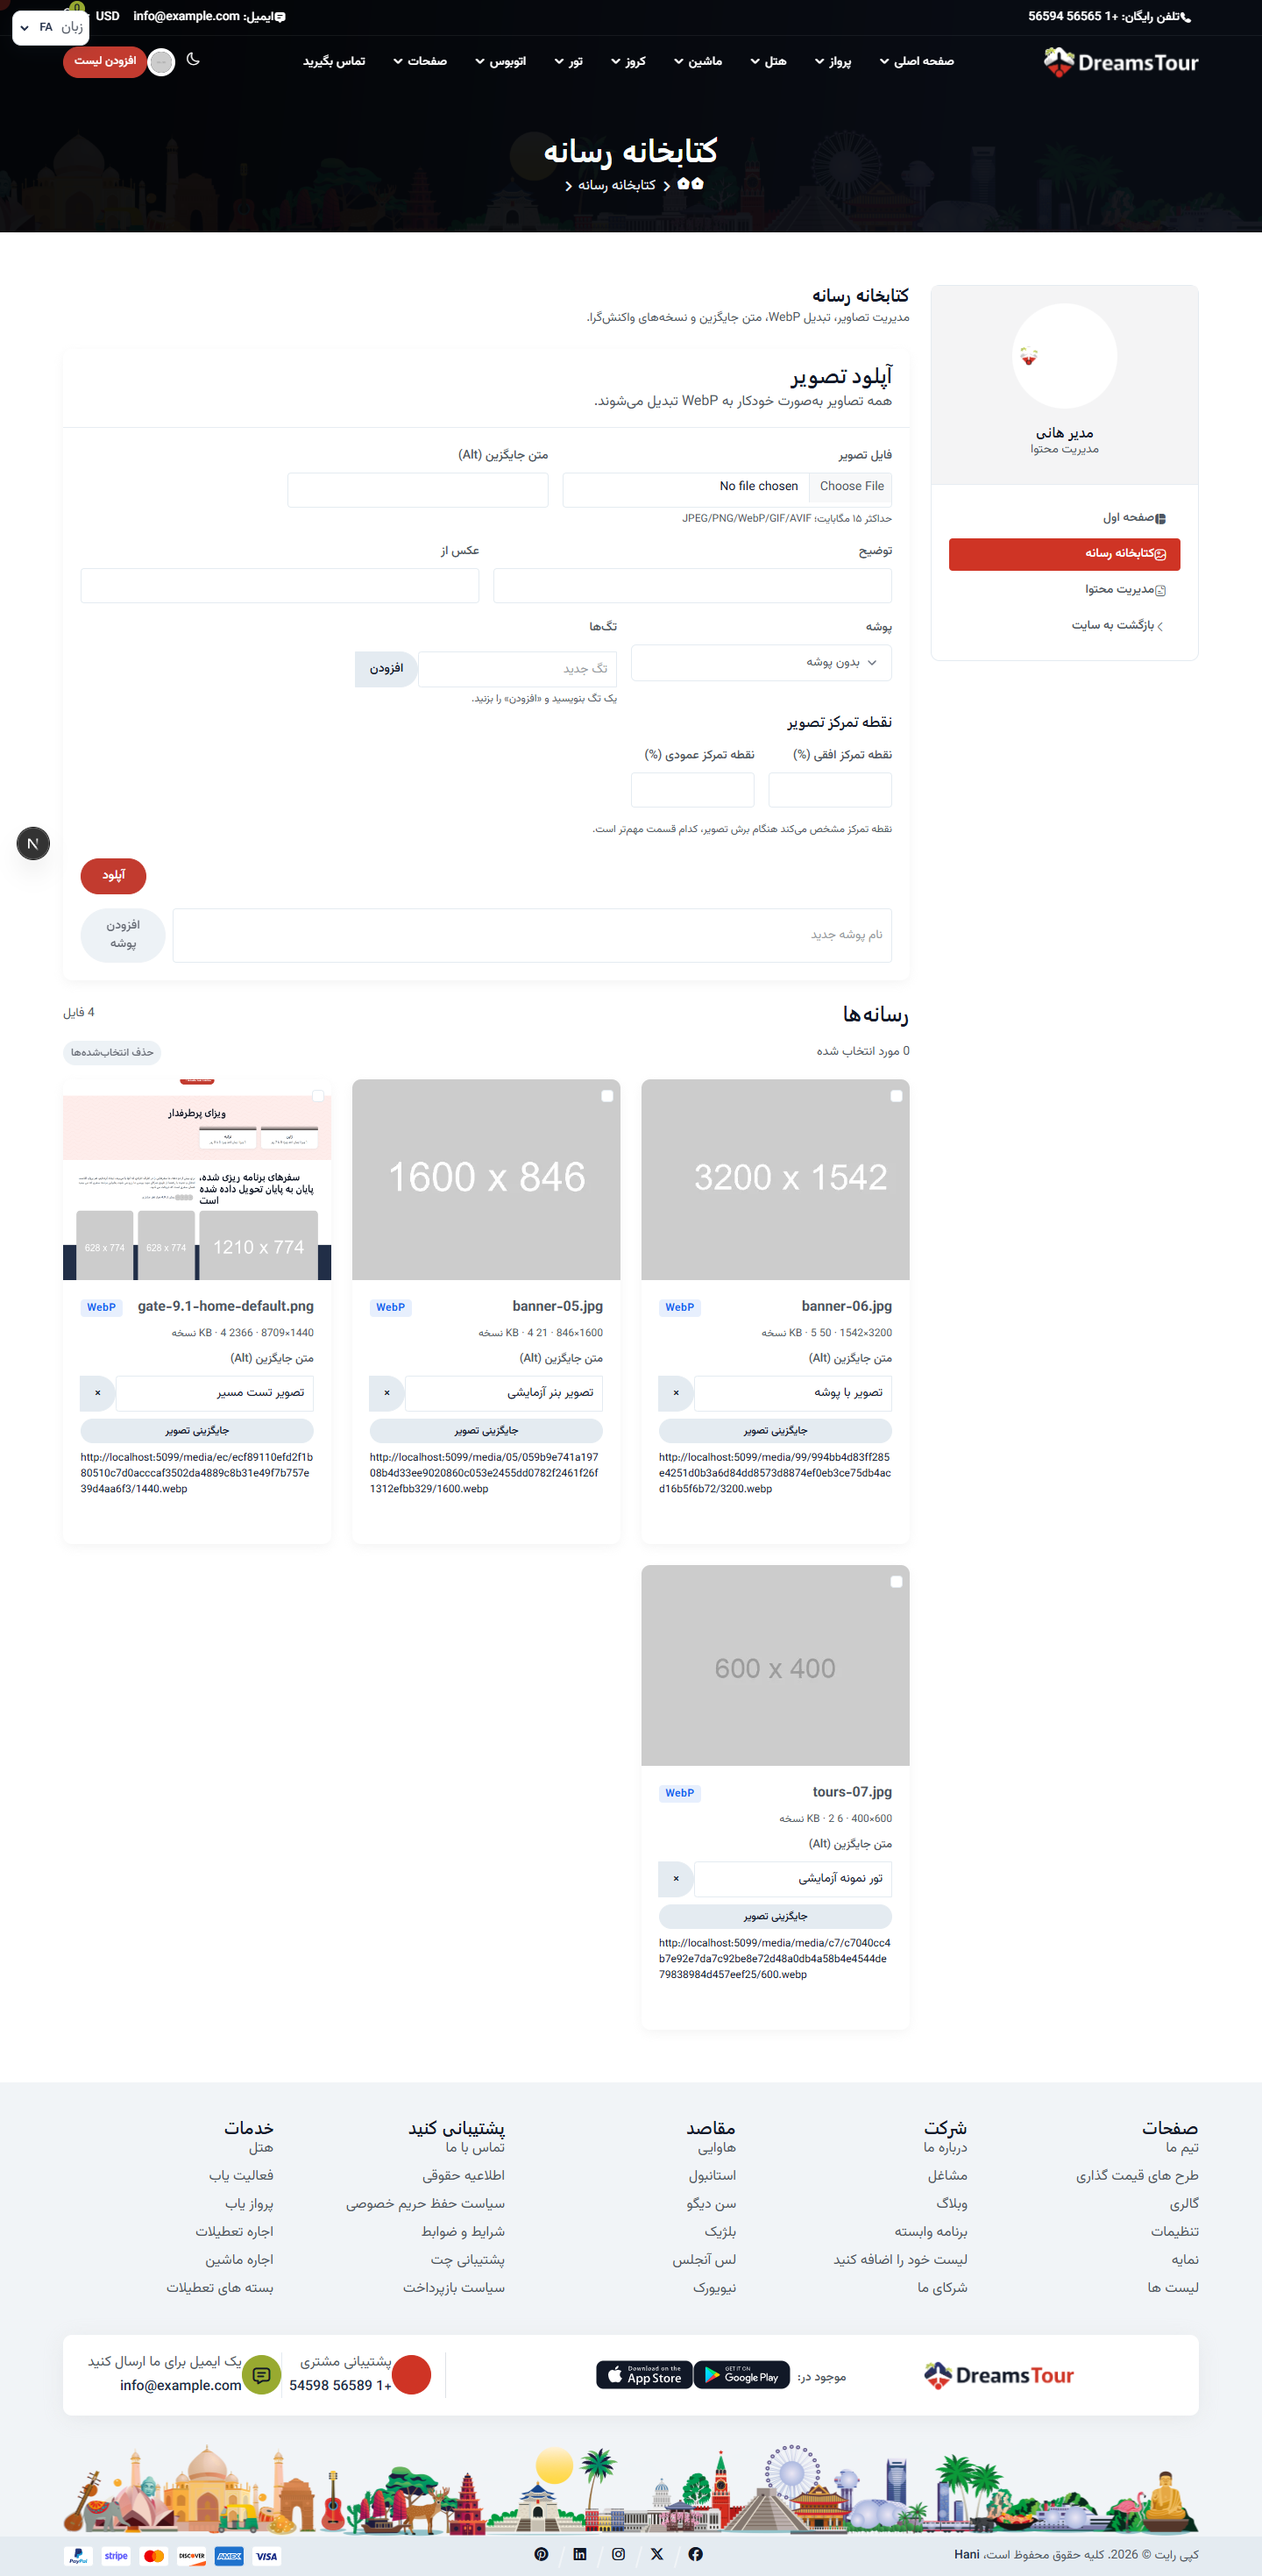
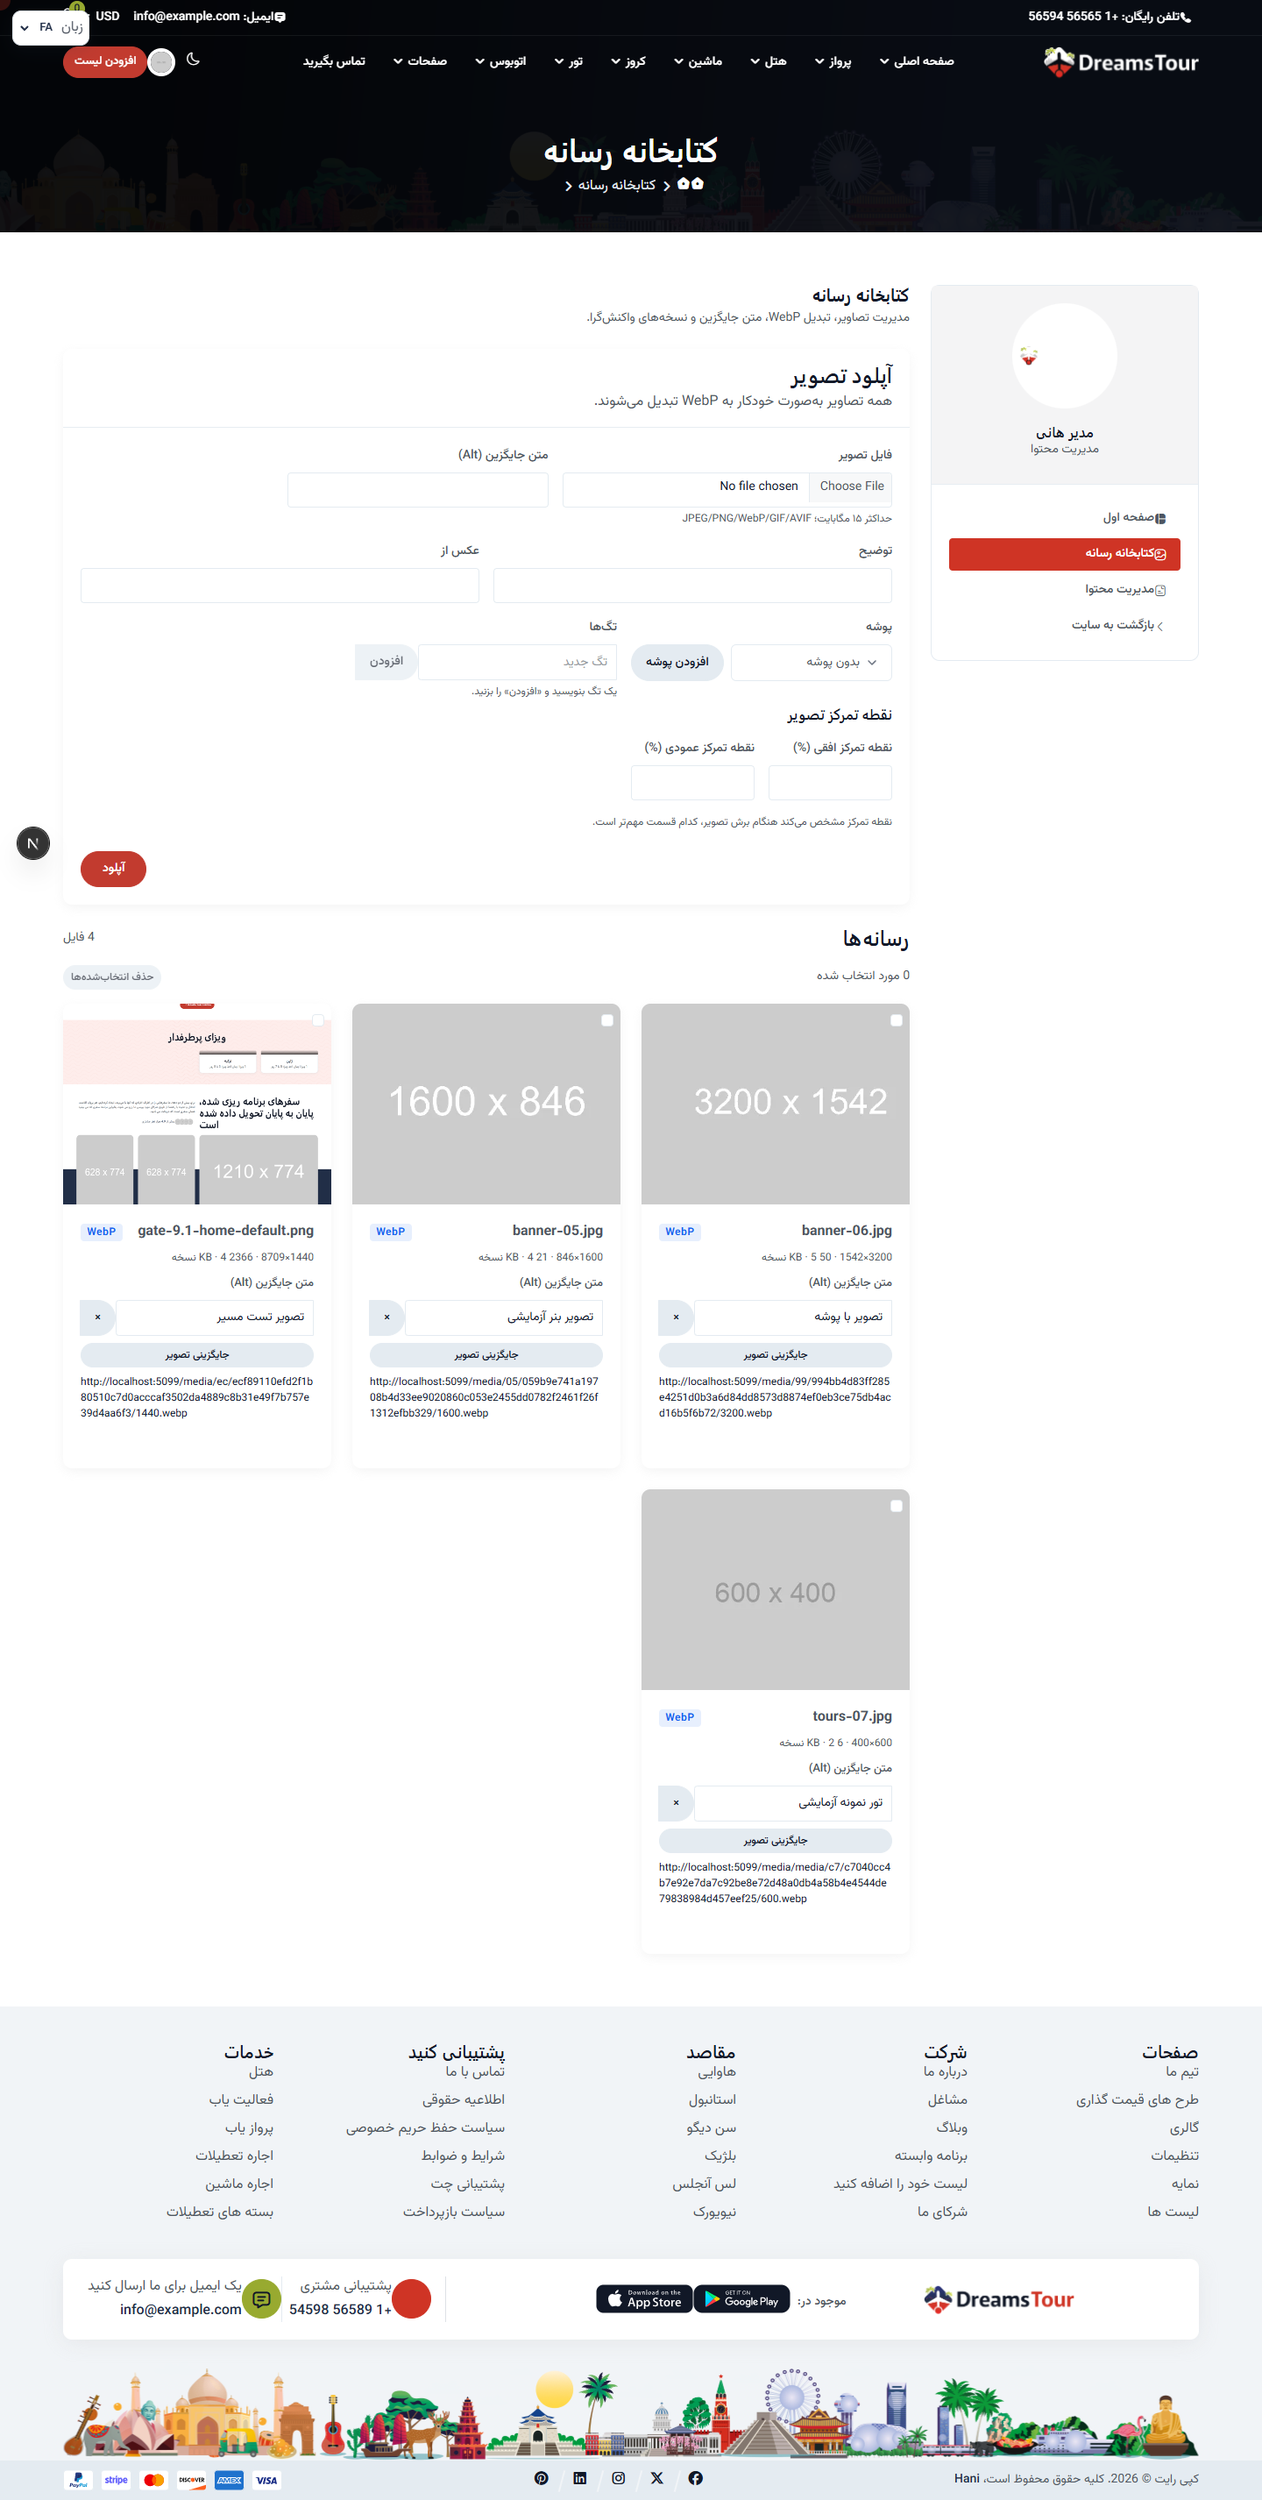
fix: align tag editor and move folder creation into modal

diff --git a/frontend/src/features/home-experience/ui/MediaLibraryEditor.tsx b/frontend/src/features/home-experience/ui/MediaLibraryEditor.tsx
@@ -1,6 +1,7 @@
 "use client";
 
-import { useState, useTransition } from "react";
+import { useEffect, useState, useTransition } from "react";
+import { createPortal } from "react-dom";
 import { useTranslations } from "next-intl";
 import { useRouter } from "next/navigation";
 import type { MediaAsset, MediaFolder } from "../domain/media";
@@ -29,10 +30,25 @@ export function MediaLibraryEditor({
   const [items, setItems] = useState(initialItems);
   const [folders, setFolders] = useState(initialFolders);
   const [newFolder, setNewFolder] = useState("");
+  const [folderModalOpen, setFolderModalOpen] = useState(false);
   const [uploadTags, setUploadTags] = useState<string[]>([]);
   const [selectedIds, setSelectedIds] = useState<string[]>([]);
   const [status, setStatus] = useState<"idle" | "uploaded" | "error">("idle");
   const [pending, startTransition] = useTransition();
+
+  useEffect(() => {
+    if (!folderModalOpen) return;
+    const previousOverflow = document.body.style.overflow;
+    document.body.style.overflow = "hidden";
+    const onKeyDown = (event: KeyboardEvent) => {
+      if (event.key === "Escape") setFolderModalOpen(false);
+    };
+    document.addEventListener("keydown", onKeyDown);
+    return () => {
+      document.body.style.overflow = previousOverflow;
+      document.removeEventListener("keydown", onKeyDown);
+    };
+  }, [folderModalOpen]);
 
   const upload = (formData: FormData) => {
     startTransition(async () => {
@@ -67,6 +83,7 @@ export function MediaLibraryEditor({
       if (result.ok && result.data) {
         setFolders((current) => [...current, result.data!]);
         setNewFolder("");
+        setFolderModalOpen(false);
       } else {
         setStatus("error");
       }
@@ -210,14 +227,26 @@ export function MediaLibraryEditor({
               <label className="form-label" htmlFor="media-folder">
                 {t("folder")}
               </label>
-              <select id="media-folder" className="form-select" name="folderId">
-                <option value="">{t("noFolder")}</option>
-                {folders.map((folder) => (
-                  <option key={folder.id} value={folder.id}>
-                    {folder.name}
-                  </option>
-                ))}
-              </select>
+              <div className="d-flex gap-2 media-folder-select-row">
+                <select id="media-folder" className="form-select" name="folderId">
+                  <option value="">{t("noFolder")}</option>
+                  {folders.map((folder) => (
+                    <option key={folder.id} value={folder.id}>
+                      {folder.name}
+                    </option>
+                  ))}
+                </select>
+                <button
+                  type="button"
+                  className="btn btn-light text-nowrap media-folder-add"
+                  onClick={() => {
+                    setStatus("idle");
+                    setFolderModalOpen(true);
+                  }}
+                >
+                  {t("addFolder")}
+                </button>
+              </div>
             </div>
             <div className="col-lg-4">
               <label className="form-label">{t("tags")}</label>
@@ -273,22 +302,6 @@ export function MediaLibraryEditor({
               </button>
             </div>
           </form>
-          <div className="d-flex gap-2 mt-3 media-folder-row">
-            <input
-              className="form-control"
-              value={newFolder}
-              placeholder={t("newFolder")}
-              onChange={(event) => setNewFolder(event.target.value)}
-            />
-            <button
-              type="button"
-              className="btn btn-light"
-              onClick={addFolder}
-              disabled={pending || !newFolder.trim()}
-            >
-              {t("addFolder")}
-            </button>
-          </div>
         </div>
       </div>
 
@@ -404,6 +417,87 @@ export function MediaLibraryEditor({
           ))}
         </div>
       )}
+
+      {folderModalOpen &&
+        typeof document !== "undefined" &&
+        createPortal(
+          <>
+            <div
+              className="modal fade show d-block"
+              role="dialog"
+              aria-modal="true"
+              aria-labelledby="media-folder-modal-title"
+              tabIndex={-1}
+              onMouseDown={(event) => {
+                if (event.target === event.currentTarget) {
+                  setFolderModalOpen(false);
+                }
+              }}
+            >
+              <div className="modal-dialog modal-dialog-centered">
+                <div className="modal-content">
+                  <div className="modal-header">
+                    <h5 className="modal-title" id="media-folder-modal-title">
+                      {t("addFolderTitle")}
+                    </h5>
+                    <button
+                      type="button"
+                      className="btn-close"
+                      aria-label={t("cancel")}
+                      onClick={() => setFolderModalOpen(false)}
+                    />
+                  </div>
+                  <div className="modal-body">
+                    {status === "error" && (
+                      <div className="alert alert-danger" role="alert">
+                        {t("error")}
+                      </div>
+                    )}
+                    <label className="form-label" htmlFor="media-new-folder">
+                      {t("newFolder")}
+                    </label>
+                    <input
+                      id="media-new-folder"
+                      className="form-control"
+                      value={newFolder}
+                      autoFocus
+                      maxLength={120}
+                      onChange={(event) => setNewFolder(event.target.value)}
+                      onKeyDown={(event) => {
+                        if (event.key === "Enter" && newFolder.trim()) {
+                          event.preventDefault();
+                          addFolder();
+                        }
+                      }}
+                    />
+                    <p className="fs-12 text-gray-6 mb-0 mt-2">
+                      {t("addFolderHint")}
+                    </p>
+                  </div>
+                  <div className="modal-footer">
+                    <button
+                      type="button"
+                      className="btn btn-light"
+                      onClick={() => setFolderModalOpen(false)}
+                    >
+                      {t("cancel")}
+                    </button>
+                    <button
+                      type="button"
+                      className="btn btn-primary"
+                      onClick={addFolder}
+                      disabled={pending || !newFolder.trim()}
+                    >
+                      {t("addFolder")}
+                    </button>
+                  </div>
+                </div>
+              </div>
+            </div>
+            <div className="modal-backdrop fade show" />
+          </>,
+          document.body
+        )}
     </div>
   );
 }

diff --git a/frontend/src/components/hani/tag-input.tsx b/frontend/src/components/hani/tag-input.tsx
@@ -3,8 +3,8 @@
 import { useState } from "react";
 
 /**
- * Tag editor with removable chips. Used by the media and content admin forms
- * instead of a comma-separated text field.
+ * Tag editor with a single input row and removable chips underneath. Used by
+ * the media and content admin forms instead of a comma-separated text field.
  */
 export function TagInput({
   tags,
@@ -32,23 +32,6 @@ export function TagInput({
 
   return (
     <div>
-      <div className="d-flex flex-wrap gap-2 mb-2">
-        {tags.map((tag) => (
-          <span
-            key={tag}
-            className="badge bg-light text-dark border d-inline-flex align-items-center gap-2 py-2"
-          >
-            {tag}
-            <button
-              type="button"
-              className="btn-close"
-              style={{ fontSize: 8 }}
-              aria-label={`${removeLabel}: ${tag}`}
-              onClick={() => onChange(tags.filter((item) => item !== tag))}
-            />
-          </span>
-        ))}
-      </div>
       <div className="input-group">
         <input
           className="form-control"
@@ -62,10 +45,34 @@ export function TagInput({
             }
           }}
         />
-        <button type="button" className="btn btn-light" onClick={add}>
+        <button
+          type="button"
+          className="btn btn-light px-3"
+          onClick={add}
+          disabled={!draft.trim()}
+        >
           {addLabel}
         </button>
       </div>
+      {tags.length > 0 && (
+        <div className="d-flex flex-wrap gap-2 mt-2">
+          {tags.map((tag) => (
+            <span
+              key={tag}
+              className="badge bg-light text-dark border d-inline-flex align-items-center gap-2 py-2"
+            >
+              {tag}
+              <button
+                type="button"
+                className="btn-close"
+                style={{ fontSize: 8 }}
+                aria-label={`${removeLabel}: ${tag}`}
+                onClick={() => onChange(tags.filter((item) => item !== tag))}
+              />
+            </span>
+          ))}
+        </div>
+      )}
     </div>
   );
 }

diff --git a/frontend/src/app/globals.scss b/frontend/src/app/globals.scss
@@ -337,26 +337,32 @@ html[lang="en"] body {
     display: block;
   }
 
-  .media-folder-row {
+  .media-folder-select-row {
     align-items: stretch;
+  }
+
+  .media-folder-select-row .form-select {
+    min-width: 0;
+  }
+
+  .media-folder-add {
+    flex: 0 0 auto;
   }
 
   @media (max-width: 767.98px) {
     .media-upload-form .form-control,
     .media-upload-form .form-select,
-    .media-upload-form .btn,
-    .media-folder-row .form-control,
-    .media-folder-row .btn {
+    .media-upload-form .btn {
       font-size: 16px;
       min-height: 44px;
     }
 
     .media-upload-submit,
-    .media-folder-row .btn {
+    .media-folder-add {
       width: 100%;
     }
 
-    .media-folder-row {
+    .media-folder-select-row {
       flex-direction: column;
     }
 

diff --git a/src/Hani.Api/ContentEntryEndpoints.cs b/src/Hani.Api/ContentEntryEndpoints.cs
@@ -50,7 +50,8 @@ public static class ContentEntryEndpoints
         var query = db.ContentEntries.AsNoTracking().AsQueryable();
         if (!string.IsNullOrWhiteSpace(locale))
         {
-            query = query.Where(item => item.Locale == locale.ToLowerInvariant());
+            var normalizedLocale = locale.ToLowerInvariant();
+            query = query.Where(item => item.Locale == normalizedLocale);
         }
         if (type is not null)
         {
@@ -301,10 +302,11 @@ public static class ContentEntryEndpoints
         CancellationToken cancellationToken)
     {
         var normalizedLocale = languages.Normalize(locale);
+        var normalizedSlug = slug.ToLowerInvariant();
         var entry = await db.ContentEntries
             .AsNoTracking()
             .FirstOrDefaultAsync(item =>
-                item.Slug == slug.ToLowerInvariant() &&
+                item.Slug == normalizedSlug &&
                 item.Locale == normalizedLocale &&
                 item.Type == (type ?? ContentEntryType.Page) &&
                 (item.Status == ContentStatus.Published ||

diff --git a/docs/plan/STATUS.md b/docs/plan/STATUS.md
@@ -588,3 +588,4 @@
 - Content CMS core: ContentEntry + revisions, admin content editor, public content page, draft/publish/unpublish, hero media/SEO fields.
 - Content CMS completion: rich text, revision restore, scheduled publish, automatic media usage, public page/API, content sitemap, media-backed hero variants. Draft preview remains.
 - Admin production polish: 20MB Server Action upload limit, chip-based tags, explicit focal-point labels, CKEditor 5 GPL editor, live SEO audit, responsive media/content layouts, and a compact mobile admin nav. Content media API is namespaced under `/internal/v1/content-media` to avoid the identity moderation route collision.
+- Media upload UX: tag input and add button share one aligned row with chips below; folder creation moved next to the folder select and opens a centered modal, with the old bottom folder form removed.

diff --git a/docs/plan/DONE.md b/docs/plan/DONE.md
@@ -295,3 +295,4 @@
 | `e42058b` | Content CMS core: entries/revisions, admin editor, public content page, draft/publish |
 | `2fc1b34` | Content CMS completion: rich text, revision restore, scheduling, usage sync, sitemap, media hero |
 | `7aeefbb` | Admin polish: 20MB uploads, chip tags, focal labels, CKEditor 5 GPL, SEO audit, mobile admin nav, content-media route |
+| `pending` | Media upload UX: aligned tag row, chips below, folder creation modal beside the folder select |
